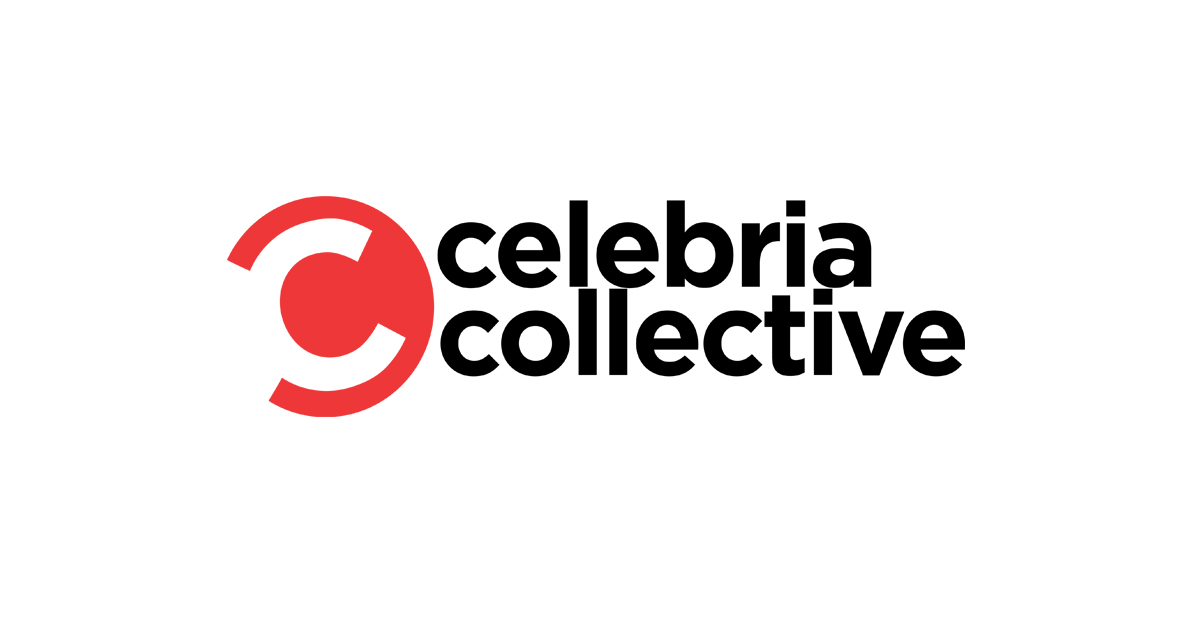
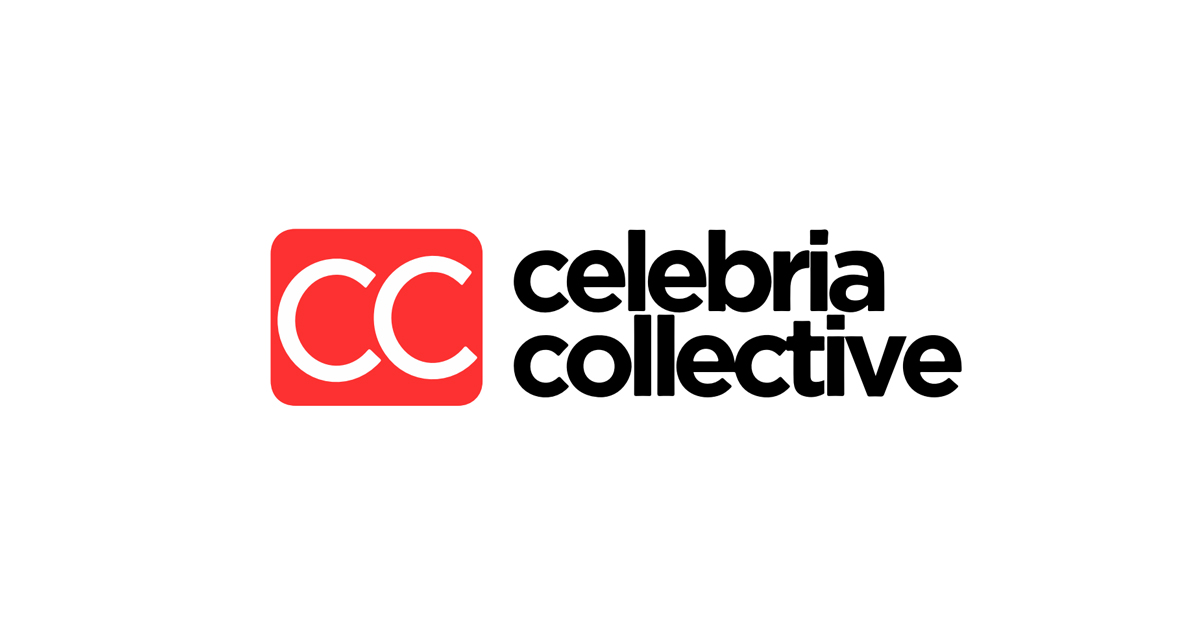
og data update

Changed region(s): [[0.185, 0.3025, 0.8017, 0.6656]]

diff --git a/app/routes/about.contact-us._index.tsx b/app/routes/about.contact-us._index.tsx
@@ -11,23 +11,23 @@ export default function () {
             <Grid.Col span={{ base: 12, md: 4 }}>
                 <List spacing="lg">
                     <List.Item icon={
-                        <ThemeIcon color="blue" size={24} variant="white">
+                        <ThemeIcon color="gray" size={24} variant="white">
                             <IconPhone style={{ width: rem(16), height: rem(16) }} />
                         </ThemeIcon>
                     }>[phone redacted]</List.Item>
                     <List.Item icon={
-                        <ThemeIcon color="blue" size={24} variant="white">
+                        <ThemeIcon color="gray" size={24} variant="white">
                             <IconMail style={{ width: rem(16), height: rem(16) }} />
                         </ThemeIcon>
                     }>[email redacted]</List.Item>
                     <List.Item icon={
-                        <ThemeIcon color="blue" size={24} variant="white">
+                        <ThemeIcon color="gray" size={24} variant="white">
                             <IconMapPin style={{ width: rem(16), height: rem(16) }} />
                         </ThemeIcon>
                     }>Celebria Collective Private Limited: 02,
                         VASANTHA TOWERS, COCONUT garden layout, Krishnarajapuram, Bangalore North, Bangalore, Karnataka - 560036</List.Item>
                     <List.Item icon={
-                        <ThemeIcon color="blue" size={24} variant="white">
+                        <ThemeIcon color="gray" size={24} variant="white">
                             <IconBrandWhatsapp style={{ width: rem(16), height: rem(16) }} />
                         </ThemeIcon>
                     }><a href="https://wa.me/[phone redacted]">chat on whatsapp</a></List.Item>